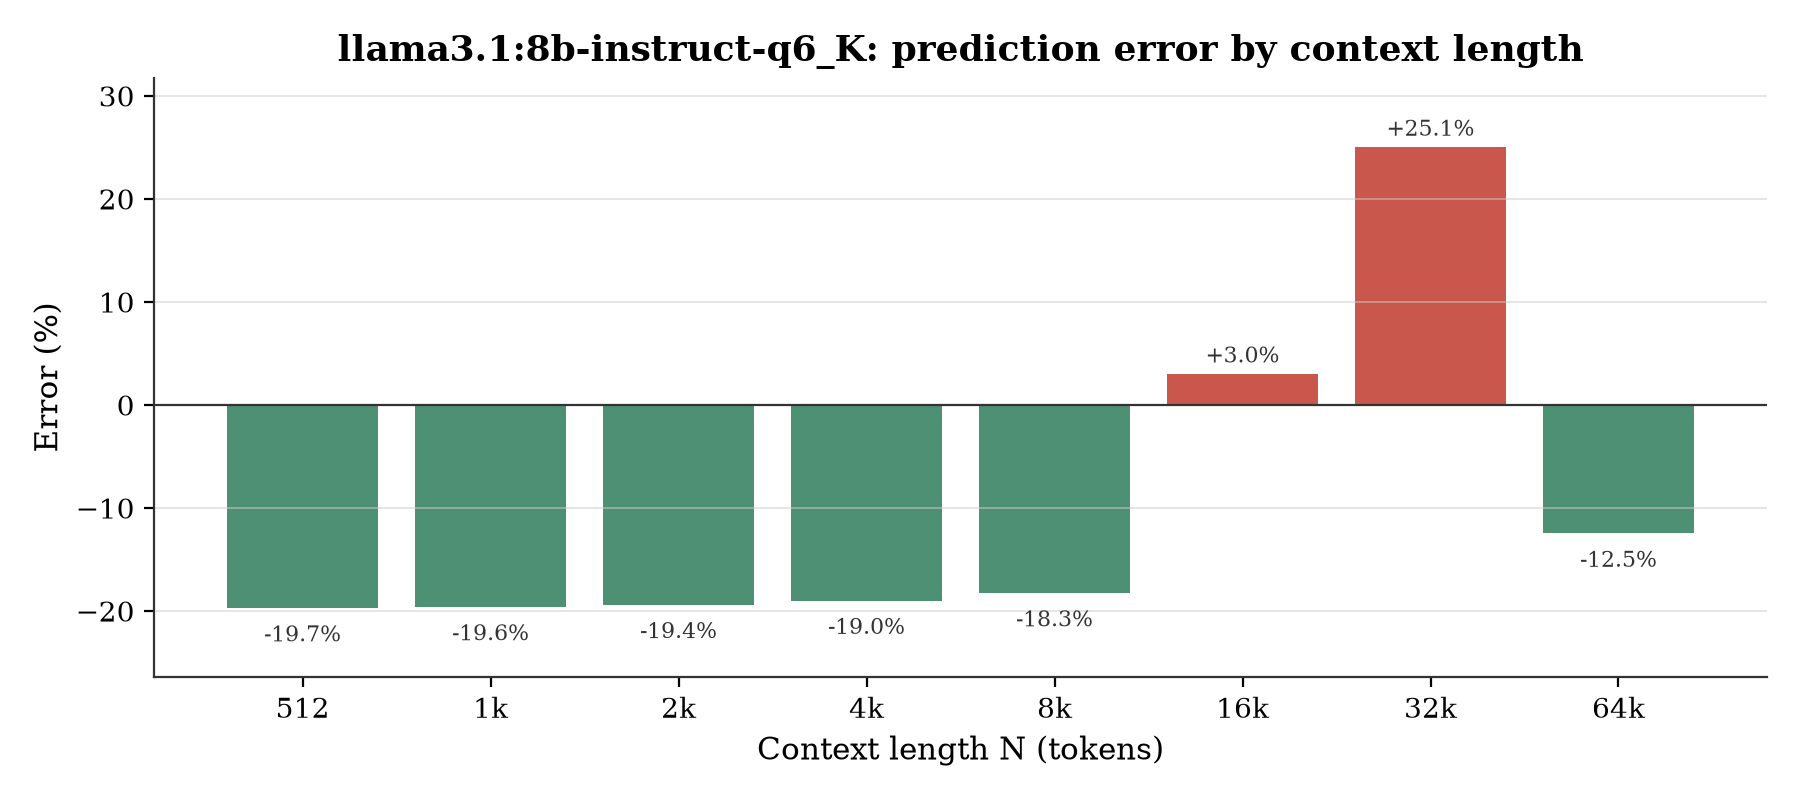
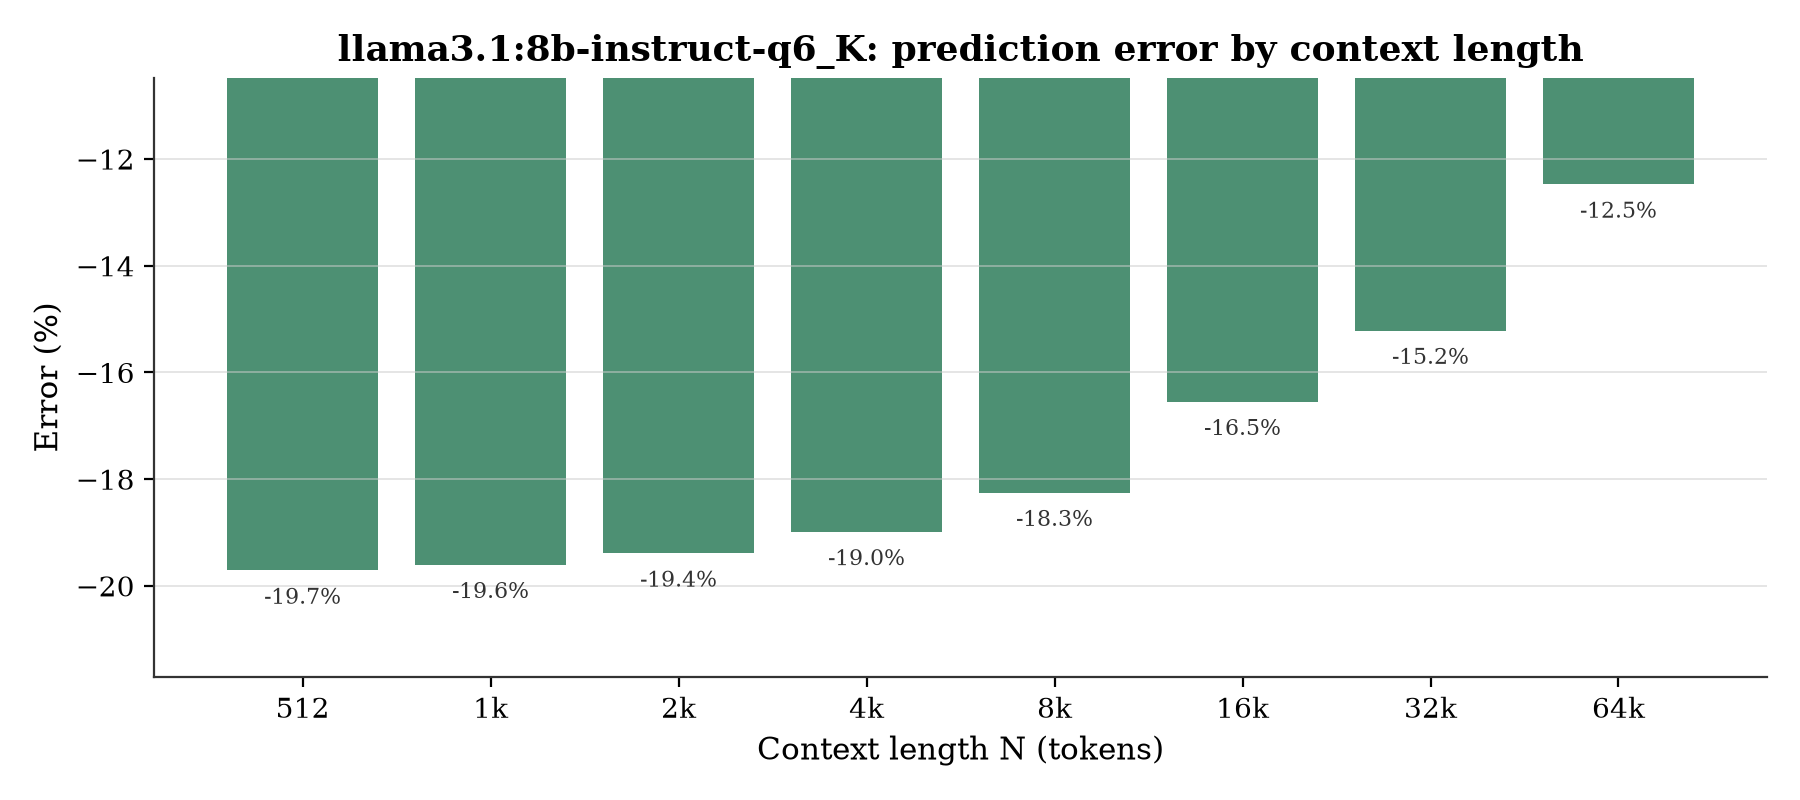
fix: runs that deviated due to env

diff --git a/results/rq4/csvs/llama3.1_8b-instruct-q3_K_M/rq4_summary_table.tex b/results/rq4/csvs/llama3.1_8b-instruct-q3_K_M/rq4_summary_table.tex
@@ -10,8 +10,8 @@ $N$ (tokens) & Predicted (GB) & Measured (GB) & Error (\)) \\
 4,096 & 5.51 & 4.53 \pm 0.00 & -17.81 \\
 8,192 & 6.05 & 5.03 \pm 0.00 & -16.84 \\
 16,384 & 7.12 & 6.08 \pm 0.00 & -14.68 \\
-32,768 & 9.27 & 12.89 \pm 0.00 & +39.09 \\
-65,536 & 13.56 & 14.06 \pm 2.66 & +3.69 \\
+32,768 & 9.27 & 8.03 \pm 0.00 & -13.38 \\
+65,536 & 13.56 & 12.12 \pm 0.00 & -10.65 \\
 \bottomrule
 \end{tabular}
 \caption{Predicted vs. measured VRAM usage across context length for llama3.1:8b-instruct-q3\_K\_M.}

diff --git a/results/rq4/csvs/llama3.1_8b-instruct-q6_K/rq4_summary_table.tex b/results/rq4/csvs/llama3.1_8b-instruct-q6_K/rq4_summary_table.tex
@@ -9,8 +9,8 @@ $N$ (tokens) & Predicted (GB) & Measured (GB) & Error (\)) \\
 2,048 & 8.05 & 6.49 \pm 0.00 & -19.39 \\
 4,096 & 8.32 & 6.74 \pm 0.00 & -18.99 \\
 8,192 & 8.85 & 7.24 \pm 0.00 & -18.25 \\
-16,384 & 9.93 & 10.23 \pm 2.66 & +3.04 \\
-32,768 & 12.07 & 15.10 \pm 0.00 & +25.05 \\
+16,384 & 9.93 & 8.28 \pm 0.00 & -16.55 \\
+32,768 & 12.07 & 10.24 \pm 0.00 & -15.21 \\
 65,536 & 16.37 & 14.33 \pm 0.00 & -12.48 \\
 \bottomrule
 \end{tabular}
